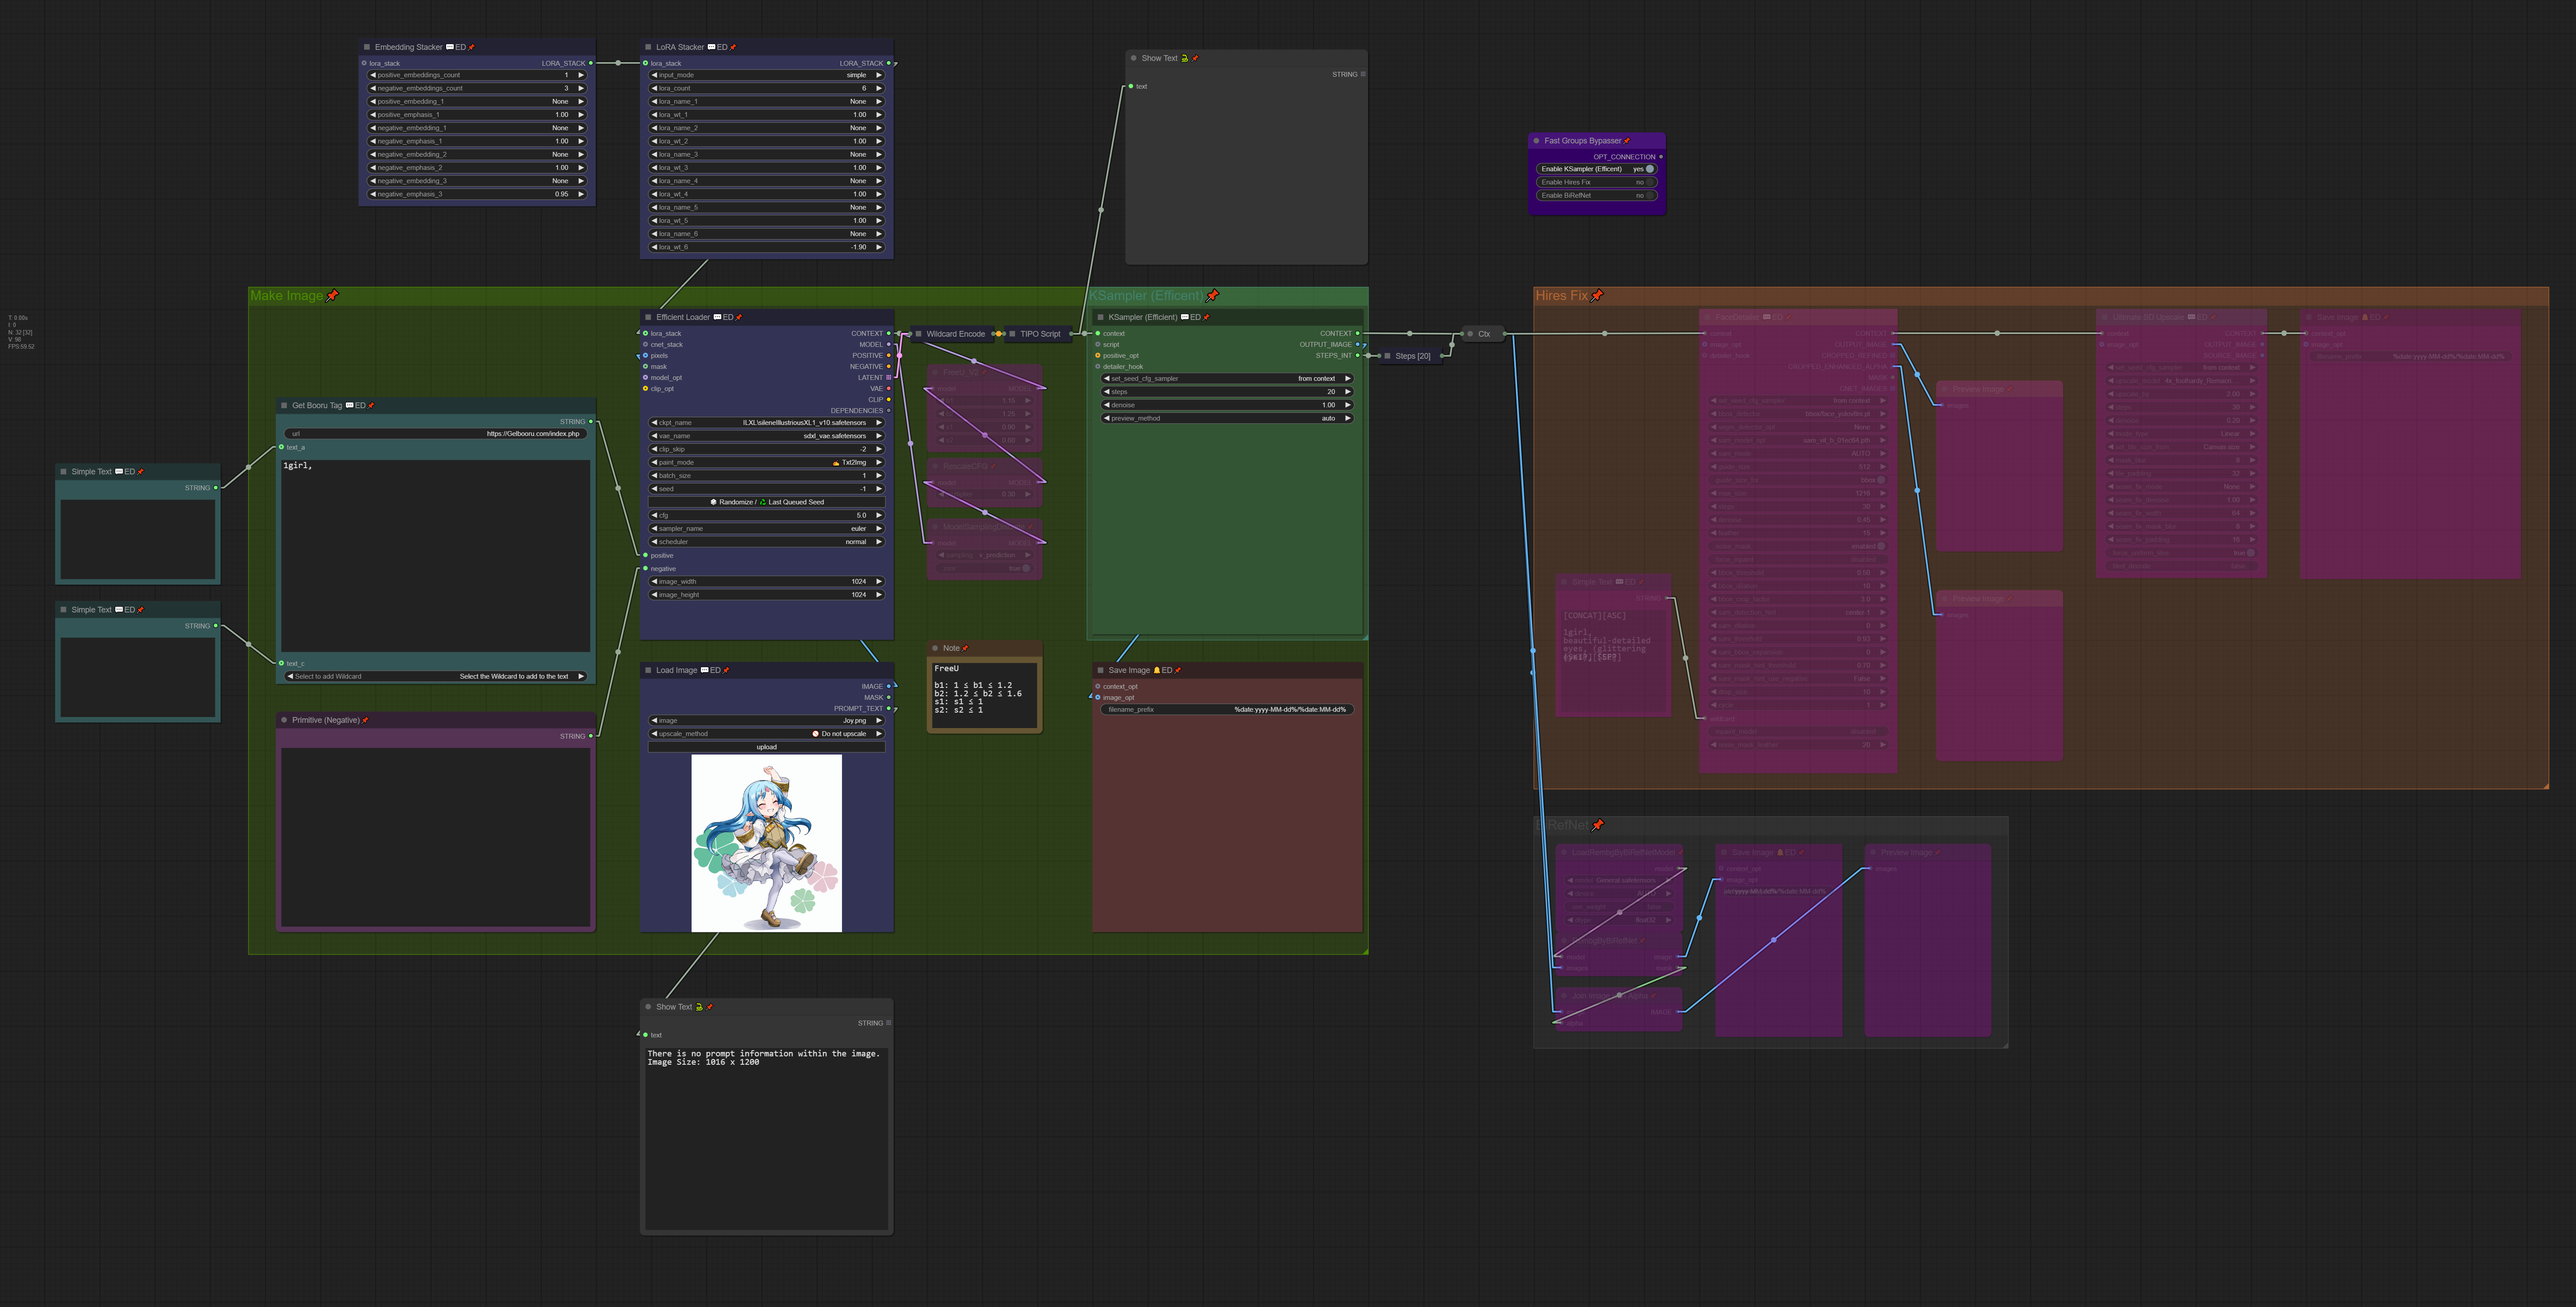
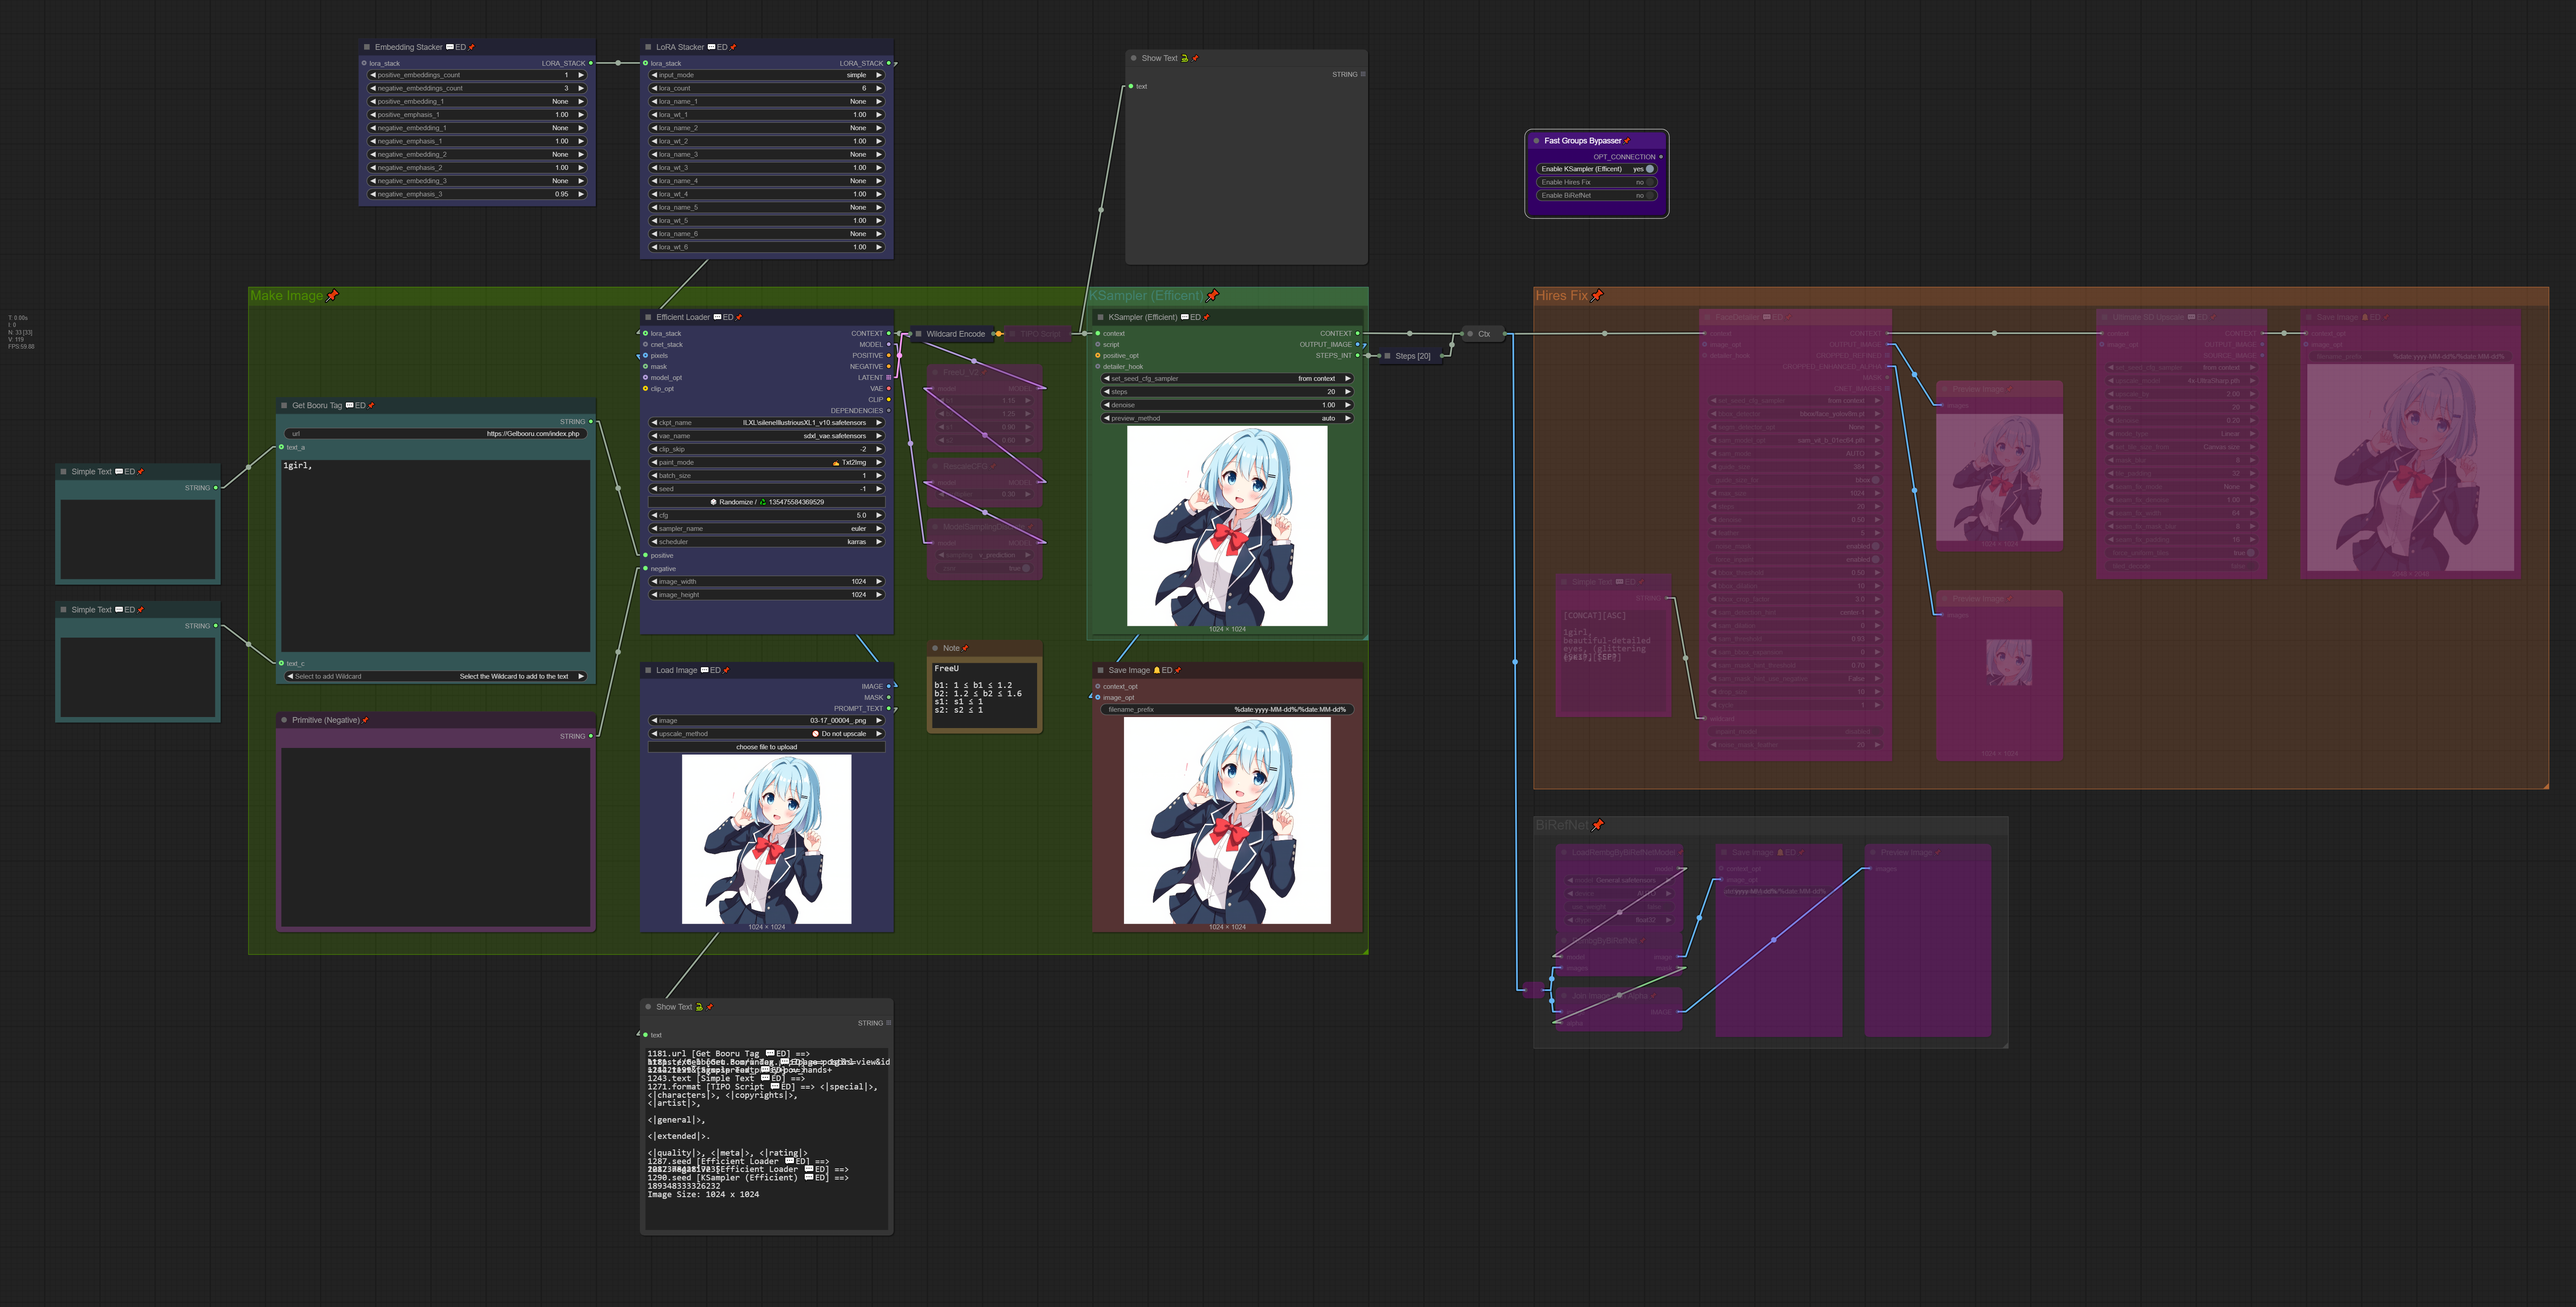
0.8.0 update
0.8.0 update

diff --git a/efficiency_nodes_ED.py b/efficiency_nodes_ED.py
@@ -428,9 +428,8 @@ class LoRA_Stacker_ED:
             }
         }        
 
-        loras = (["None"] + folder_paths.get_filename_list("loras"),)
         for i in range(1, cls.MAX_LORA_COUNT):
-            inputs["required"][f"lora_name_{i}"] = loras
+            inputs["required"][f"lora_name_{i}"] = (["None"] + folder_paths.get_filename_list("loras"),)
             inputs["required"][f"lora_wt_{i}"] = ("FLOAT", {"default": 1.0, "min": -10.0, "max": 10.0, "step": 0.01})
             inputs["required"][f"model_str_{i}"] = ("FLOAT", {"default": 1.0, "min": -10.0, "max": 10.0, "step": 0.01})
             inputs["required"][f"clip_str_{i}"] = ("FLOAT", {"default": 1.0, "min": -10.0, "max": 10.0, "step": 0.01})        
@@ -494,13 +493,12 @@ class Embedding_Stacker_ED:
                 "negative_embeddings_count": ("INT", {"default": 3, "min": 0, "max": cls.MAX_EMBEDDING_COUNT, "step": 1}),
             }
         }
-        embeddings = (["None"] + folder_paths.get_filename_list("embeddings"),)
         
         for i in range(1, cls.MAX_EMBEDDING_COUNT):
-            inputs["required"][f"positive_embedding_{i}"] = embeddings
+            inputs["required"][f"positive_embedding_{i}"] = (["None"] + folder_paths.get_filename_list("embeddings"),)
             inputs["required"][f"positive_emphasis_{i}"] = ("FLOAT", {"default": 1.0, "min": 0.0, "max": 3.0, "step": 0.05})
         for i in range(1, cls.MAX_EMBEDDING_COUNT):
-            inputs["required"][f"negative_embedding_{i}"] = embeddings
+            inputs["required"][f"negative_embedding_{i}"] = (["None"] + folder_paths.get_filename_list("embeddings"),)
             inputs["required"][f"negative_emphasis_{i}"] = ("FLOAT", {"default": 1.0, "min": 0.0, "max": 3.0, "step": 0.05})
 
         inputs["optional"] = {
@@ -666,7 +664,7 @@ class EfficientLoader_ED():
             "🎨 Inpaint(Ksampler)": 3,
             "🎨 Inpaint(MaskDetailer)": 4,
         }
-        types = {"required": { "ckpt_name": (["🔌 model_opt input"] + folder_paths.get_filename_list("checkpoints"),),
+        inputs = {"required": { "ckpt_name": (["🔌 model_opt input"] + folder_paths.get_filename_list("checkpoints"),),
                               "vae_name": (["Baked VAE"] + folder_paths.get_filename_list("vae"),),
                               "clip_skip": ("INT", {"default": -2, "min": -24, "max": 0, "step": 1}),                        
                               "paint_mode": ( list(paint_mode.keys()), {"default": "✍ Txt2Img"}),
@@ -691,7 +689,7 @@ class EfficientLoader_ED():
                             "my_unique_id": "UNIQUE_ID",
                             "extra_pnginfo": "EXTRA_PNGINFO",}
                 }
-        return types
+        return inputs
 
     RETURN_TYPES = ("RGTHREE_CONTEXT", "MODEL", "CONDITIONING", "CONDITIONING", "LATENT", "VAE", "CLIP", "DEPENDENCIES",)
     RETURN_NAMES = ("CONTEXT", "MODEL", "POSITIVE", "NEGATIVE", "LATENT", "VAE", "CLIP", "DEPENDENCIES",)
@@ -932,8 +930,7 @@ prompt_blacklist_ed = set([
 ])
 
 class LoadImage_ED(nodes.LoadImage):
-    UPSCALE_METHODS = ["🚫 Do not upscale", "nearest-exact", "bilinear", "area", "bicubic", "lanczos"] + ["upscale_models/"+x for x in folder_paths.get_filename_list("upscale_models")]
-    
+    UPSCALE_METHODS = ["🚫 Do not upscale", "nearest-exact", "bilinear", "area", "bicubic", "lanczos"] + ["upscale_models/"+x for x in folder_paths.get_filename_list("upscale_models")]    
     PROPORTION_METHODS = ["disabled", "1.5x", "2x", "3x", "4x", "based on width", "based on height", "disabled & crop center"]
     
     @classmethod
@@ -1022,7 +1019,8 @@ class LoadImage_ED(nodes.LoadImage):
     @staticmethod
     def get_prompt(image, image_width, image_height):
         image_path = folder_paths.get_annotated_filepath(image)
-        info = Image.open(image_path).info
+        img = Image.open(image_path)
+        info = img.info
 
         positive = ""
         negative = ""
@@ -1044,7 +1042,10 @@ class LoadImage_ED(nodes.LoadImage):
                 else:
                     return None
 
-        if isinstance(info, dict) and 'workflow' in info:
+        if not isinstance(info, dict):
+            text = "There is no prompt information within the image."
+        
+        elif 'prompt' in info:
             prompt = json.loads(info['prompt'])
             for k, v in prompt.items():
                 input_types = get_node_inputs(v['class_type'])
@@ -1064,9 +1065,20 @@ class LoadImage_ED(nodes.LoadImage):
 
             for k, v in prompt_dicts.items():
                 text += f"{k} [{v[0]}] ==> {v[1]}\n"
-
             #positive = prompt_dicts.get(positive_id.strip(), "")
             #negative = prompt_dicts.get(negative_id.strip(), "")
+
+        elif 'exif' in info:
+            text = info['exif'].decode("utf-16-be")
+            
+            # 영어 알파벳이 처음 등장하는 위치 찾기
+            match = re.search(r'[a-zA-Z]', text)
+            if match:
+                text = text[match.start():]  # 첫 번째 영어 문자가 나온 위치부터 출력
+                text = text.replace("\n","\n\n") + ("\n")
+            else:
+                text = "There is no prompt information within the image."
+
         else:
             text = "There is no prompt information within the image."
 
